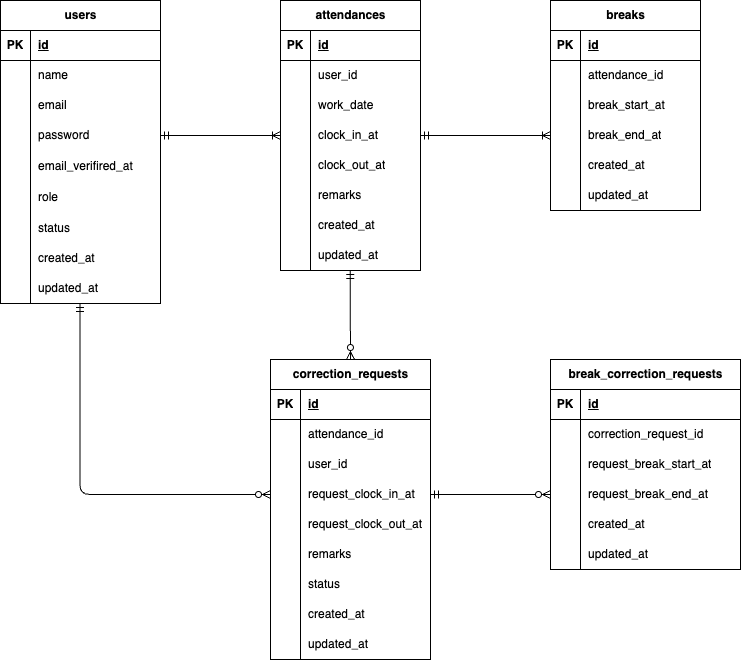
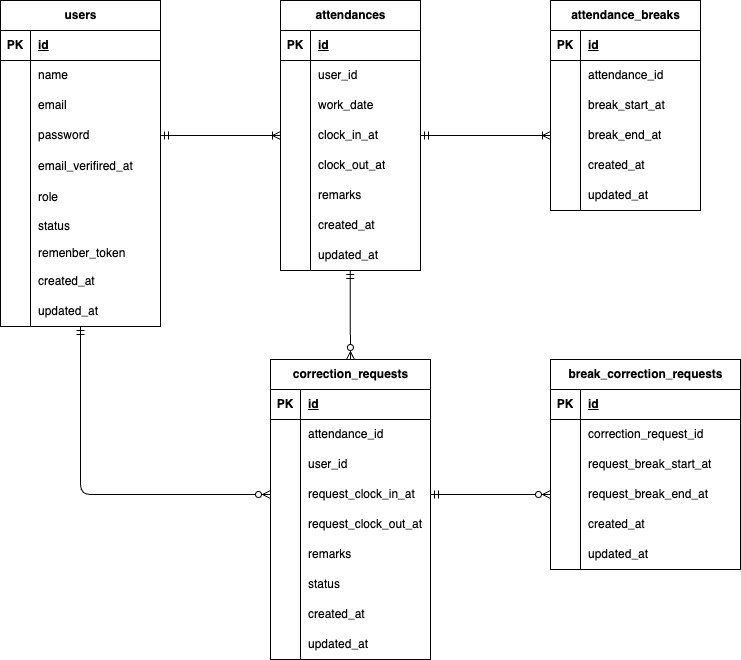
add：migrations、Models

diff --git a/src/database/migrations/2026_05_21_163409_create_attendances_table.php b/src/database/migrations/2026_05_21_163409_create_attendances_table.php
@@ -1,0 +1,37 @@
+<?php
+
+use Illuminate\Database\Migrations\Migration;
+use Illuminate\Database\Schema\Blueprint;
+use Illuminate\Support\Facades\Schema;
+
+class CreateAttendancesTable extends Migration
+{
+    /**
+     * Run the migrations.
+     *
+     * @return void
+     */
+    public function up()
+    {
+        Schema::create('attendances', function (Blueprint $table) {
+            $table->id();
+            $table->foreignId('user_id')->constrained()->cascadeOnDelete();
+            $table->date('work_date');
+            $table->dateTime('clock_in_at')->nullable();
+            $table->dateTime('clock_out_at');
+            $table->text('remarks');
+            $table->timestamps();
+            $table->unique(['user_id', 'work_date']);
+        });
+    }
+
+    /**
+     * Reverse the migrations.
+     *
+     * @return void
+     */
+    public function down()
+    {
+        Schema::dropIfExists('attendances');
+    }
+}

diff --git a/src/database/migrations/2026_05_21_163412_create_correction_requests_table.php b/src/database/migrations/2026_05_21_163412_create_correction_requests_table.php
@@ -1,0 +1,37 @@
+<?php
+
+use Illuminate\Database\Migrations\Migration;
+use Illuminate\Database\Schema\Blueprint;
+use Illuminate\Support\Facades\Schema;
+
+class CreateCorrectionRequestsTable extends Migration
+{
+    /**
+     * Run the migrations.
+     *
+     * @return void
+     */
+    public function up()
+    {
+        Schema::create('correction_requests', function (Blueprint $table) {
+            $table->id();
+            $table->foreignId('attendance_id')->constrained()->cascadeOnDelete();
+            $table->foreignId('user_id')->constrained()->cascadeOnDelete();
+            $table->dateTime('request_clock_in_at')->nullable();
+            $table->dateTime('request_clock_out_at')->nullable();
+            $table->text('remarks')->nullable();
+            $table->tinyInteger('status')->nullable();
+            $table->timestamps();
+        });
+    }
+
+    /**
+     * Reverse the migrations.
+     *
+     * @return void
+     */
+    public function down()
+    {
+        Schema::dropIfExists('correction_requests');
+    }
+}

diff --git a/src/database/migrations/2026_05_21_163414_create_break_correction_requests_table.php b/src/database/migrations/2026_05_21_163414_create_break_correction_requests_table.php
@@ -1,0 +1,34 @@
+<?php
+
+use Illuminate\Database\Migrations\Migration;
+use Illuminate\Database\Schema\Blueprint;
+use Illuminate\Support\Facades\Schema;
+
+class CreateBreakCorrectionRequestsTable extends Migration
+{
+    /**
+     * Run the migrations.
+     *
+     * @return void
+     */
+    public function up()
+    {
+        Schema::create('break_correction_requests', function (Blueprint $table) {
+            $table->id();
+            $table->foreignId('correction_attendance_id')->constrained()->cascadeOnDelete();
+            $table->datetime('break_start_at')->nullable();
+            $table->datetime('break_end_at')->nullable();
+            $table->timestamps();
+        });
+    }
+
+    /**
+     * Reverse the migrations.
+     *
+     * @return void
+     */
+    public function down()
+    {
+        Schema::dropIfExists('break_correction_requests');
+    }
+}

diff --git a/src/database/migrations/2026_05_21_163605_create_attendance_breaks_table.php b/src/database/migrations/2026_05_21_163605_create_attendance_breaks_table.php
@@ -1,0 +1,34 @@
+<?php
+
+use Illuminate\Database\Migrations\Migration;
+use Illuminate\Database\Schema\Blueprint;
+use Illuminate\Support\Facades\Schema;
+
+class CreateAttendanceBreaksTable extends Migration
+{
+    /**
+     * Run the migrations.
+     *
+     * @return void
+     */
+    public function up()
+    {
+        Schema::create('attendance_breaks', function (Blueprint $table) {
+            $table->id();
+            $table->foreignId('attendance_id')->constrained()->cascadeOnDelete();
+            $table->datetime('break_start_at')->nullable();
+            $table->datetime('break_end_at');
+            $table->timestamps();
+        });
+    }
+
+    /**
+     * Reverse the migrations.
+     *
+     * @return void
+     */
+    public function down()
+    {
+        Schema::dropIfExists('attendance_breaks');
+    }
+}

diff --git a/src/app/Models/Attendance.php b/src/app/Models/Attendance.php
@@ -1,0 +1,11 @@
+<?php
+
+namespace App\Models;
+
+use Illuminate\Database\Eloquent\Factories\HasFactory;
+use Illuminate\Database\Eloquent\Model;
+
+class Attendance extends Model
+{
+    use HasFactory;
+}

diff --git a/src/app/Models/AttendanceBreak.php b/src/app/Models/AttendanceBreak.php
@@ -1,0 +1,11 @@
+<?php
+
+namespace App\Models;
+
+use Illuminate\Database\Eloquent\Factories\HasFactory;
+use Illuminate\Database\Eloquent\Model;
+
+class AttendanceBreak extends Model
+{
+    use HasFactory;
+}

diff --git a/src/app/Models/BreakCorrectionRequest.php b/src/app/Models/BreakCorrectionRequest.php
@@ -1,0 +1,11 @@
+<?php
+
+namespace App\Models;
+
+use Illuminate\Database\Eloquent\Factories\HasFactory;
+use Illuminate\Database\Eloquent\Model;
+
+class BreakCorrectionRequest extends Model
+{
+    use HasFactory;
+}

diff --git a/src/app/Models/CorrectionRequest.php b/src/app/Models/CorrectionRequest.php
@@ -1,0 +1,11 @@
+<?php
+
+namespace App\Models;
+
+use Illuminate\Database\Eloquent\Factories\HasFactory;
+use Illuminate\Database\Eloquent\Model;
+
+class CorrectionRequest extends Model
+{
+    use HasFactory;
+}

diff --git a/src/database/migrations/2014_10_12_000000_create_users_table.php b/src/database/migrations/2014_10_12_000000_create_users_table.php
@@ -19,6 +19,8 @@ class CreateUsersTable extends Migration
             $table->string('email')->unique();
             $table->timestamp('email_verified_at')->nullable();
             $table->string('password');
+            $table->tinyInteger('role');
+            $table->tinyInteger('status');
             $table->rememberToken();
             $table->timestamps();
         });

diff --git a/src/app/Models/User.php b/src/app/Models/User.php
@@ -41,4 +41,5 @@ class User extends Authenticatable
     protected $casts = [
         'email_verified_at' => 'datetime',
     ];
+    
 }